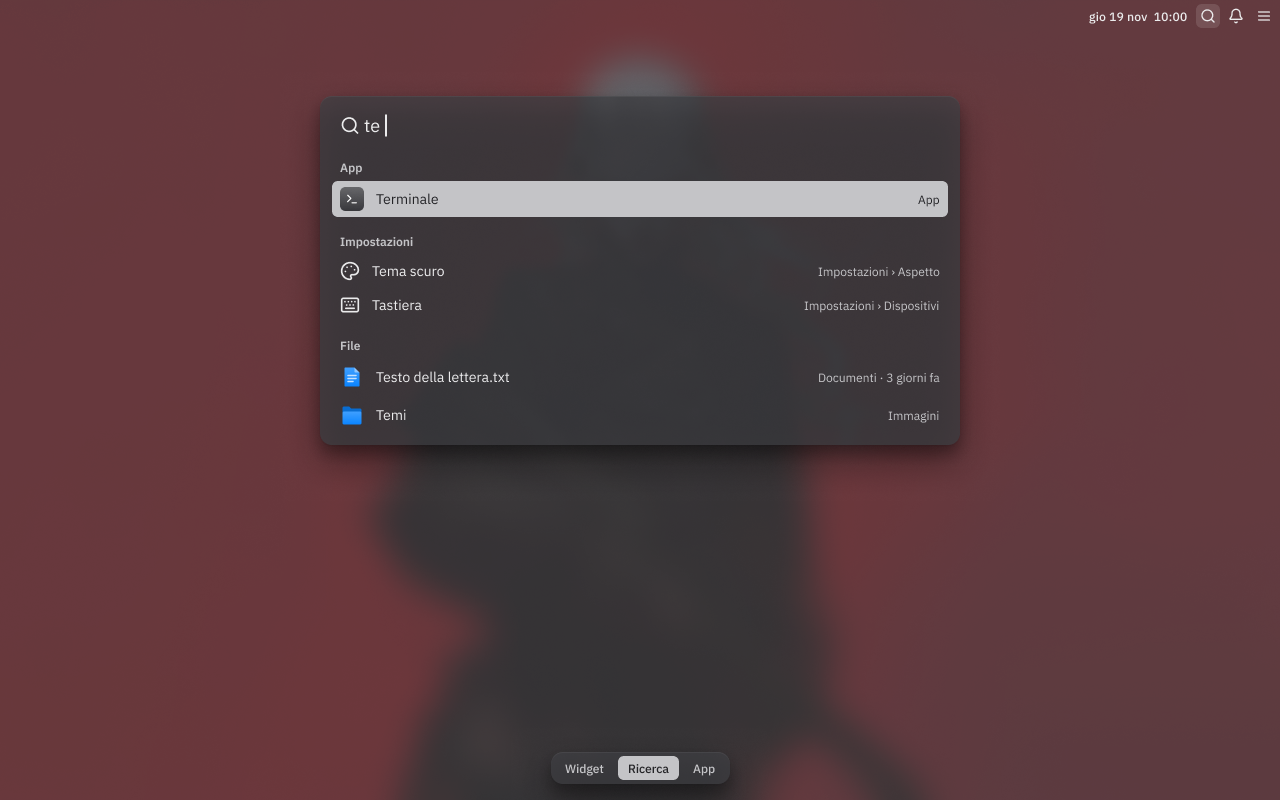
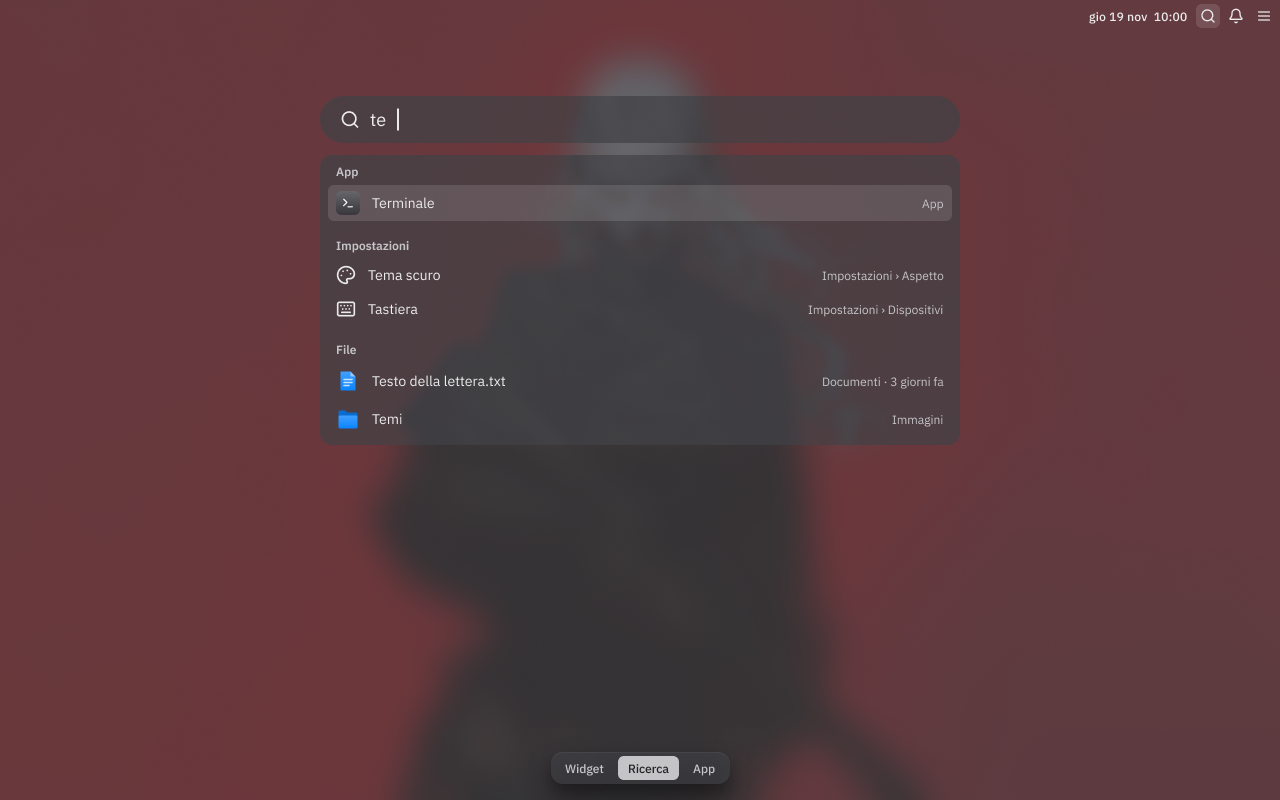
Pannello di ricerca piu' leggero (scelte B: campo a pillola e risultati in un riquadro di vetro, app sul vetro senza riquadro, scelta con fondo tenue); le pagine scorrono in orizzontale con ease-in-out in 350 ms, come il cambio di desktop; si apre davvero sulla Ricerca

diff --git a/utente/barra/stile.css b/utente/barra/stile.css
@@ -112,13 +112,14 @@ window {
 
 /* 6. IL PANNELLO DI RICERCA (cassetto.c; misure dal disegno "Ricerca nuovo stile", pagina
  * "Scrivania" di Figma). Tutto lo schermo e' di vetro (la sfocatura la fa il compositore,
- * effetti.c); sopra, le pagine in alto al centro e le linguette in fondo. */
+ * effetti.c); sopra, le pagine in alto al centro (scorrono in orizzontale) e le linguette in fondo. */
 .cassetto {
 	background-color: var(--superficie-vetro);
 }
 
-.pagine {
-	margin-top: 96px;  /* la barra (32) e due volte spazio/32 */
+/* ogni pagina sta in un posto largo come lo schermo (le pagine scorrono in orizzontale) */
+.pagina {
+	padding-top: 96px;  /* la barra (32) e due volte spazio/32 */
 }
 
 /* i pannelli del pannello di ricerca: vetro, angoli raggio/finestra, ombra/sovrapposto. Qui li
@@ -142,15 +143,23 @@ window {
 	border-spacing: var(--spazio-16);
 }
 
-/* la pagina Ricerca: largo 640, padding/s intorno, spazio/16 fra il campo e i gruppi */
+/* la pagina Ricerca: larga 640; il campo e' una pillola di vetro e sotto, a spazio/12, i
+ * risultati in un riquadro di vetro (niente ombre: scelta della persona) */
 .pannello-ricerca {
-	padding: var(--padding-s);
-	border-spacing: var(--spazio-16);
+	border-spacing: var(--spazio-12);
 }
 
 .campo-ricerca {
-	padding: 6px var(--spazio-8);
+	padding: var(--spazio-12) var(--padding-l);
 	border-spacing: 10px;
+	border-radius: var(--raggio-pillola);
+	background-color: var(--superficie-vetro);
+}
+
+.risultati {
+	padding: var(--spazio-8);
+	border-radius: var(--raggio-finestra);
+	background-color: var(--superficie-vetro);
 }
 
 .testo-ricerca {
@@ -189,23 +198,25 @@ window {
 	border-spacing: var(--spazio-12);
 }
 
+/* la cosa scelta con le frecce: un fondo tenue */
 .risultato.scelta, .app.scelta {
-	background-color: var(--azione-sfondo);
+	background-color: var(--controllo-selezione-vetro);
 }
 
-.risultato.scelta label, .app.scelta label {
-	color: var(--azione-testo);
+/* la pagina App: sul vetro, senza riquadro; 8 app per riga, ognuna larga 102 e alta 104, a gap/m
+ * l'una dall'altra in orizzontale e a spazio/16 in verticale */
+.pagina-app {
+	padding: var(--spazio-16);
 }
 
-/* la pagina App: 8 app per riga, ognuna larga 102 e alta 104, a gap/m l'una dall'altra */
 .griglia-app {
-	border-spacing: var(--gap-m);
+	border-spacing: var(--gap-m) var(--spazio-16);
 }
 
 .app {
 	min-width: 102px;
 	padding: var(--spazio-12) 0;
-	border-radius: var(--raggio-controllo);
+	border-radius: var(--raggio-pannello);
 }
 
 .colonna-app {

diff --git a/utente/barra/cassetto.c b/utente/barra/cassetto.c
@@ -9,12 +9,20 @@
  * pillola con i nomi delle pagine (Widget, Ricerca, App), che si possono anche cliccare:
  *   WIDGET   a sinistra i comandi rapidi e sotto le notifiche, a destra il calendario (gli stessi
  *            pannelli dei menu della barra);
- *   RICERCA  il campo di ricerca e sotto i risultati, a gruppi. Per ora c'e' solo il gruppo "App":
+ *   RICERCA  il campo di ricerca, una pillola di vetro, e sotto i risultati, a gruppi, in un
+ *            riquadro di vetro che c'e' solo quando ci sono risultati (scelta B della persona,
+ *            20/11/2026: niente ombre, tutto piu' leggero). Per ora c'e' solo il gruppo "App":
  *            file e impostazioni arriveranno con Files e con le Impostazioni; "Usate spesso" e
  *            "Recenti" (la ricerca vuota del disegno) quando qualcuno terra' il conto di cosa si usa.
  *            Per adesso, con la ricerca vuota, sotto il campo non c'e' niente;
- *   APP      tutte le app in ordine di nome, 8 per riga.
+ *   APP      tutte le app in ordine di nome, 8 per riga, direttamente sul vetro, senza riquadro
+ *            ne' titolo (scelta B della persona, 20/11/2026).
+ * La cosa scelta con le frecce (un risultato, un'app) ha un fondo tenue.
  * Si apre sulla pagina Ricerca, con il cursore nel campo.
+ * LE PAGINE SCORRONO in orizzontale, una accanto all'altra, larghe come lo schermo: passando da
+ * una all'altra scorrono in MSHELL_DURATA_DESKTOP con la curva ease-in-out (parte piano, accelera e
+ * rallenta all'arrivo), come il cambio di desktop del compositore (la persona, 20/11/2026). Con
+ * MSHELL_MENO_MOVIMENTO=1 si passa subito.
  *
  * I TASTI (dalle didascalie del disegno):
  *   Widget   -> va alla Ricerca; Esc chiude. (Su, giu' e Invio sui comandi rapidi arriveranno
@@ -40,6 +48,7 @@
 #define ICONA_APP 56         /* l'icona nella pagina App */
 #define ICONA_RIGA 24        /* l'icona in un risultato della ricerca (icona/oggetto-s) */
 #define ALTEZZA_MASSIMA 560  /* oltre, i risultati e le app scorrono */
+#define MSHELL_DURATA_DESKTOP 350  /* ms, come il cambio di desktop del compositore (animazioni.c) */
 
 enum pagina { WIDGET, RICERCA, APP, PAGINE };
 static const char *const nomi_pagine[PAGINE] = { "Widget", "Ricerca", "App" };
@@ -54,6 +63,10 @@ struct voce {
 };
 
 static GtkWidget *finestra, *pagine, *linguetta[PAGINE];
+static int larghezza;          /* la larghezza dello schermo: quella di ogni pagina */
+static double scorre_da, scorre_a;  /* lo scorrimento delle pagine: da dove a dove (in px) */
+static gint64 scorre_inizio;   /* quando e' partito (microsecondi dell'orologio dei fotogrammi) */
+static guint scorre_id;        /* il richiamo a ogni fotogramma, 0 se fermo */
 static GtkWidget *ricerca, *gruppo_app, *elenco_app, *scorri_risultati;
 static GtkWidget *griglia, *scorri_app, *calendario;
 static enum pagina pagina;
@@ -268,10 +281,71 @@ static void cambiata(GtkEditable *e, gpointer dati) {
 	filtra();
 }
 
-/* Mostra la pagina p: la sua linguetta e' quella piena. */
-static void vai(enum pagina p) {
+/* La curva ease-in-out cubica: da 0 a 1, parte piano, accelera e rallenta all'arrivo. */
+static double curva_dolce(double p) {
+	if (p < 0.5) {
+		return 4 * p * p * p;
+	}
+	double resto = -2 * p + 2;
+	return 1 - resto * resto * resto / 2;
+}
+
+/* A ogni fotogramma: le pagine al punto di adesso. */
+static gboolean scorri_passo(GtkWidget *w, GdkFrameClock *orologio, gpointer dati) {
+	double p = (double)(gdk_frame_clock_get_frame_time(orologio) - scorre_inizio) /
+		(MSHELL_DURATA_DESKTOP * 1000.0);
+	GtkAdjustment *x = gtk_scrolled_window_get_hadjustment(GTK_SCROLLED_WINDOW(pagine));
+	if (p >= 1) {
+		gtk_adjustment_set_value(x, scorre_a);
+		scorre_id = 0;
+		return G_SOURCE_REMOVE;
+	}
+	gtk_adjustment_set_value(x, scorre_da + (scorre_a - scorre_da) * curva_dolce(MAX(p, 0)));
+	return G_SOURCE_CONTINUE;
+}
+
+/* Rimette le pagine sulla pagina giusta, se non stanno scorrendo. */
+static gboolean rimetti(gpointer dati) {
+	GtkAdjustment *x = gtk_scrolled_window_get_hadjustment(GTK_SCROLLED_WINDOW(pagine));
+	if (scorre_id == 0) {
+		gtk_adjustment_set_value(x, scorre_a);
+	}
+	return G_SOURCE_REMOVE;
+}
+
+/* La misura delle pagine e' cambiata (per esempio la prima volta che il pannello compare: prima
+ * la striscia non e' larga e lo scorrimento si ferma a 0, cioe' sul Widget). Questo avviene
+ * mentre GTK sistema le misure, e uno spostamento chiesto adesso non verrebbe ridisegnato: le
+ * pagine si rimettono a posto subito dopo. */
+static void misura_cambiata(GtkAdjustment *x, gpointer dati) {
+	if (scorre_id == 0 && gtk_adjustment_get_value(x) != scorre_a) {
+		g_idle_add(rimetti, NULL);
+	}
+}
+
+/* Le pagine scorrono fino alla pagina p; "subito": senza scorrere. Uno scorrimento nuovo parte
+ * dal punto in cui sono adesso. */
+static void scorri_a(enum pagina p, gboolean subito) {
+	GtkAdjustment *x = gtk_scrolled_window_get_hadjustment(GTK_SCROLLED_WINDOW(pagine));
+	if (scorre_id != 0) {
+		gtk_widget_remove_tick_callback(pagine, scorre_id);
+		scorre_id = 0;
+	}
+	scorre_a = (double)p * larghezza;
+	if (subito || g_strcmp0(g_getenv("MSHELL_MENO_MOVIMENTO"), "1") == 0 ||
+			gtk_widget_get_frame_clock(pagine) == NULL) {
+		gtk_adjustment_set_value(x, scorre_a);
+		return;
+	}
+	scorre_da = gtk_adjustment_get_value(x);
+	scorre_inizio = gdk_frame_clock_get_frame_time(gtk_widget_get_frame_clock(pagine));
+	scorre_id = gtk_widget_add_tick_callback(pagine, scorri_passo, NULL, NULL);
+}
+
+/* Mostra la pagina p (scorrendo, se "subito" e' falso): la sua linguetta e' quella piena. */
+static void vai_come(enum pagina p, gboolean subito) {
 	pagina = p;
-	gtk_stack_set_visible_child_name(GTK_STACK(pagine), nomi_pagine[p]);
+	scorri_a(p, subito);
 	for (int i = 0; i < PAGINE; i++) {
 		if (i == (int)p) {
 			gtk_widget_add_css_class(linguetta[i], "scelta");
@@ -288,6 +362,10 @@ static void vai(enum pagina p) {
 	if (p == APP) {
 		segna_app(scelta_app < voci->len ? scelta_app : 0);
 	}
+}
+
+static void vai(enum pagina p) {
+	vai_come(p, FALSE);
 }
 
 static void linguetta_premuta(GtkButton *b, gpointer dati) {
@@ -417,7 +495,7 @@ static void apri(void) {
 	mshell_calendario_aggiorna(calendario, adesso, TRUE);
 	g_date_time_unref(adesso);
 	gtk_window_present(GTK_WINDOW(finestra));
-	vai(RICERCA);
+	vai_come(RICERCA, TRUE);  /* si apre gia' sulla Ricerca, senza scorrere */
 }
 
 void mshell_cassetto_apri_chiudi(void) {
@@ -560,7 +638,6 @@ static GtkWidget *crea_ricerca(void) {
 	gtk_widget_set_halign(p, GTK_ALIGN_CENTER);
 	gtk_widget_set_valign(p, GTK_ALIGN_START);
 	gtk_widget_set_size_request(p, 640, -1);
-	scheda(p);
 
 	GtkWidget *campo = gtk_box_new(GTK_ORIENTATION_HORIZONTAL, 0);
 	gtk_widget_add_css_class(campo, "campo-ricerca");
@@ -588,6 +665,7 @@ static GtkWidget *crea_ricerca(void) {
 	gtk_box_append(GTK_BOX(gruppo_app), elenco_app);
 	gtk_box_append(GTK_BOX(gruppi), gruppo_app);
 	scorri_risultati = gtk_scrolled_window_new();
+	gtk_widget_add_css_class(scorri_risultati, "risultati");
 	gtk_scrolled_window_set_policy(GTK_SCROLLED_WINDOW(scorri_risultati), GTK_POLICY_NEVER,
 		GTK_POLICY_AUTOMATIC);
 	gtk_scrolled_window_set_propagate_natural_height(GTK_SCROLLED_WINDOW(scorri_risultati), TRUE);
@@ -598,14 +676,12 @@ static GtkWidget *crea_ricerca(void) {
 	return p;
 }
 
-/* La pagina App: il titolo e la griglia di tutte le app. */
+/* La pagina App: la griglia di tutte le app, sul vetro. */
 static GtkWidget *crea_app(void) {
 	GtkWidget *p = gtk_box_new(GTK_ORIENTATION_VERTICAL, 0);
-	gtk_widget_add_css_class(p, "pannello");
+	gtk_widget_add_css_class(p, "pagina-app");
 	gtk_widget_set_halign(p, GTK_ALIGN_CENTER);
 	gtk_widget_set_valign(p, GTK_ALIGN_START);
-	scheda(p);
-	gtk_box_append(GTK_BOX(p), scritta("App", "sezione", "primario"));
 	griglia = gtk_grid_new();
 	gtk_widget_add_css_class(griglia, "griglia-app");
 	gtk_grid_set_column_homogeneous(GTK_GRID(griglia), TRUE);
@@ -619,6 +695,11 @@ static GtkWidget *crea_app(void) {
 	gtk_scrolled_window_set_child(GTK_SCROLLED_WINDOW(scorri_app), griglia);
 	gtk_box_append(GTK_BOX(p), scorri_app);
 	return p;
+}
+
+/* La rotella o il tappetino in orizzontale non muovono le pagine. */
+static gboolean rotella_ferma(GtkEventControllerScroll *c, double dx, double dy, gpointer dati) {
+	return dx != 0 && dy == 0;
 }
 
 /* La pillola in fondo con i nomi delle pagine. */
@@ -664,17 +745,42 @@ void mshell_cassetto_crea(const char *tema, void (*cambiato)(gboolean aperto)) {
 	gtk_layer_set_keyboard_mode(GTK_WINDOW(finestra), GTK_LAYER_SHELL_KEYBOARD_MODE_EXCLUSIVE);
 	g_signal_connect(finestra, "map", G_CALLBACK(comparso), NULL);
 
-	/* le pagine, in alto al centro; le linguette sopra, in fondo */
-	pagine = gtk_stack_new();
-	gtk_widget_add_css_class(pagine, "pagine");
-	gtk_stack_set_transition_type(GTK_STACK(pagine), GTK_STACK_TRANSITION_TYPE_NONE);
-	gtk_stack_set_hhomogeneous(GTK_STACK(pagine), FALSE);
-	gtk_stack_set_vhomogeneous(GTK_STACK(pagine), FALSE);
-	gtk_widget_set_halign(pagine, GTK_ALIGN_CENTER);
-	gtk_widget_set_valign(pagine, GTK_ALIGN_START);
-	gtk_stack_add_named(GTK_STACK(pagine), crea_widget(), nomi_pagine[WIDGET]);
-	gtk_stack_add_named(GTK_STACK(pagine), crea_ricerca(), nomi_pagine[RICERCA]);
-	gtk_stack_add_named(GTK_STACK(pagine), crea_app(), nomi_pagine[APP]);
+	/* LE PAGINE: una striscia di tre posti larghi come lo schermo, ognuno con la sua pagina in
+	 * alto al centro, dentro una finestra che scorre in orizzontale; lo scorrimento lo comanda
+	 * solo scorri_a (niente barra di scorrimento, e la rotella o il tappetino non la muovono).
+	 * Le linguette stanno sopra, in fondo. */
+	GListModel *schermi = gdk_display_get_monitors(gdk_display_get_default());
+	GdkMonitor *schermo = g_list_model_get_n_items(schermi) > 0 ?
+		g_list_model_get_item(schermi, 0) : NULL;
+	GdkRectangle misura = { 0, 0, 1280, 800 };
+	if (schermo != NULL) {
+		gdk_monitor_get_geometry(schermo, &misura);
+		g_object_unref(schermo);
+	}
+	larghezza = misura.width;
+	GtkWidget *striscia = gtk_box_new(GTK_ORIENTATION_HORIZONTAL, 0);
+	GtkWidget *(*crea[PAGINE])(void) = { crea_widget, crea_ricerca, crea_app };
+	for (int i = 0; i < PAGINE; i++) {
+		GtkWidget *posto = gtk_box_new(GTK_ORIENTATION_VERTICAL, 0);
+		gtk_widget_add_css_class(posto, "pagina");
+		gtk_widget_set_size_request(posto, larghezza, -1);
+		gtk_box_append(GTK_BOX(posto), crea[i]());
+		gtk_box_append(GTK_BOX(striscia), posto);
+	}
+	pagine = gtk_scrolled_window_new();
+	gtk_scrolled_window_set_policy(GTK_SCROLLED_WINDOW(pagine), GTK_POLICY_EXTERNAL,
+		GTK_POLICY_NEVER);
+	gtk_scrolled_window_set_child(GTK_SCROLLED_WINDOW(pagine), striscia);
+	g_signal_connect(gtk_scrolled_window_get_hadjustment(GTK_SCROLLED_WINDOW(pagine)), "changed",
+		G_CALLBACK(misura_cambiata), NULL);
+	/* il cursore che entra nel campo di ricerca non deve far scorrere le pagine */
+	gtk_viewport_set_scroll_to_focus(
+		GTK_VIEWPORT(gtk_scrolled_window_get_child(GTK_SCROLLED_WINDOW(pagine))), FALSE);
+	GtkEventController *rotella = gtk_event_controller_scroll_new(
+		GTK_EVENT_CONTROLLER_SCROLL_HORIZONTAL);
+	gtk_event_controller_set_propagation_phase(rotella, GTK_PHASE_CAPTURE);
+	g_signal_connect(rotella, "scroll", G_CALLBACK(rotella_ferma), NULL);
+	gtk_widget_add_controller(pagine, rotella);
 
 	GtkWidget *sopra = gtk_overlay_new();
 	gtk_widget_add_css_class(sopra, "contenuto-cassetto");

diff --git a/utente/compositore/animazioni.c b/utente/compositore/animazioni.c
@@ -51,6 +51,9 @@
 /* Le durate. I nomi dei token sono una proposta, da confermare: durata/breve e durata/media. */
 #define MSHELL_DURATA_BREVE 150  /* token "durata/breve" (proposta, da confermare): dissolvenze */
 #define MSHELL_DURATA_MEDIA 250  /* token "durata/media" (proposta, da confermare): scorrimenti */
+/* il cambio di desktop, un po' piu' lento degli altri scorrimenti (la persona, 20/11/2026); la
+ * stessa durata ha lo scorrimento delle pagine del pannello di ricerca (utente/barra/cassetto.c) */
+#define MSHELL_DURATA_DESKTOP 350
 #define MSHELL_ANIM_PASSO_MS 16  /* uno scatto del timer: circa 60 al secondo */
 
 /* Definita piu' avanti in tinywl.c: ricalcola che cosa c'e' sotto il puntatore. */
@@ -106,7 +109,7 @@ static int64_t mshell_anim_adesso(void) {
 }
 
 /* Quanto manca, da 0 (inizio) a 1 (fine), con la curva ease-out cubica: parte veloce e
- * rallenta all'arrivo. */
+ * rallenta all'arrivo. (Il cambio di desktop usa invece mshell_anim_curva_dolce.) */
 static double mshell_anim_curva(int64_t inizio, int durata, int64_t ora) {
 	double p = (double)(ora - inizio) / durata;
 	if (p >= 1) {
@@ -117,6 +120,24 @@ static double mshell_anim_curva(int64_t inizio, int durata, int64_t ora) {
 	}
 	double resto = 1 - p;
 	return 1 - resto * resto * resto;
+}
+
+/* Come mshell_anim_curva, ma con la curva ease-in-out cubica: parte piano, accelera e rallenta
+ * all'arrivo (la persona, 20/11/2026: il cambio di desktop, come lo scorrimento delle pagine del
+ * pannello di ricerca nella barra). */
+static double mshell_anim_curva_dolce(int64_t inizio, int durata, int64_t ora) {
+	double p = (double)(ora - inizio) / durata;
+	if (p >= 1) {
+		return 1;
+	}
+	if (p < 0) {
+		p = 0;
+	}
+	if (p < 0.5) {
+		return 4 * p * p * p;
+	}
+	double resto = -2 * p + 2;
+	return 1 - resto * resto * resto / 2;
 }
 
 static int mshell_anim_scatto(void *data);
@@ -399,7 +420,7 @@ static int mshell_anim_scatto(void *data) {
 		struct mshell_anim_desktop *s = &mshell_anim.desktop[i];
 		struct wlr_scene_node *nodo = &server->desktop[i].albero->node;
 		if (s->corre) {
-			double e = mshell_anim_curva(s->inizio, MSHELL_DURATA_MEDIA, ora);
+			double e = mshell_anim_curva_dolce(s->inizio, MSHELL_DURATA_DESKTOP, ora);
 			wlr_scene_node_set_position(nodo, 0, (int)(s->da_y + (s->a_y - s->da_y) * e));
 			if (e >= 1) {
 				s->corre = false;

diff --git a/utente/compositore/selettori.c b/utente/compositore/selettori.c
@@ -57,7 +57,7 @@
 #define MSHELL_PUNTINO 6           /* il diametro */
 #define MSHELL_PUNTINO_SPAZIO 8    /* fra un puntino e l'altro */
 #define MSHELL_PUNTINO_SPENTO 1.0f, 1.0f, 1.0f, 0.45f  /* gli altri desktop */
-#define MSHELL_PUNTINI_MS 1000     /* quanto restano dopo il cambio (lo scorrimento e' 250) */
+#define MSHELL_PUNTINI_MS 1000     /* quanto restano dopo il cambio (lo scorrimento e' 350) */
 
 /* Un'immagine fatta a mano, sul modello dello sfondo (mshell_sfondo, piu' sotto in tinywl.c):
  * i pixel stanno in memoria e wlroots li legge con l'accesso diretto ai dati. */
